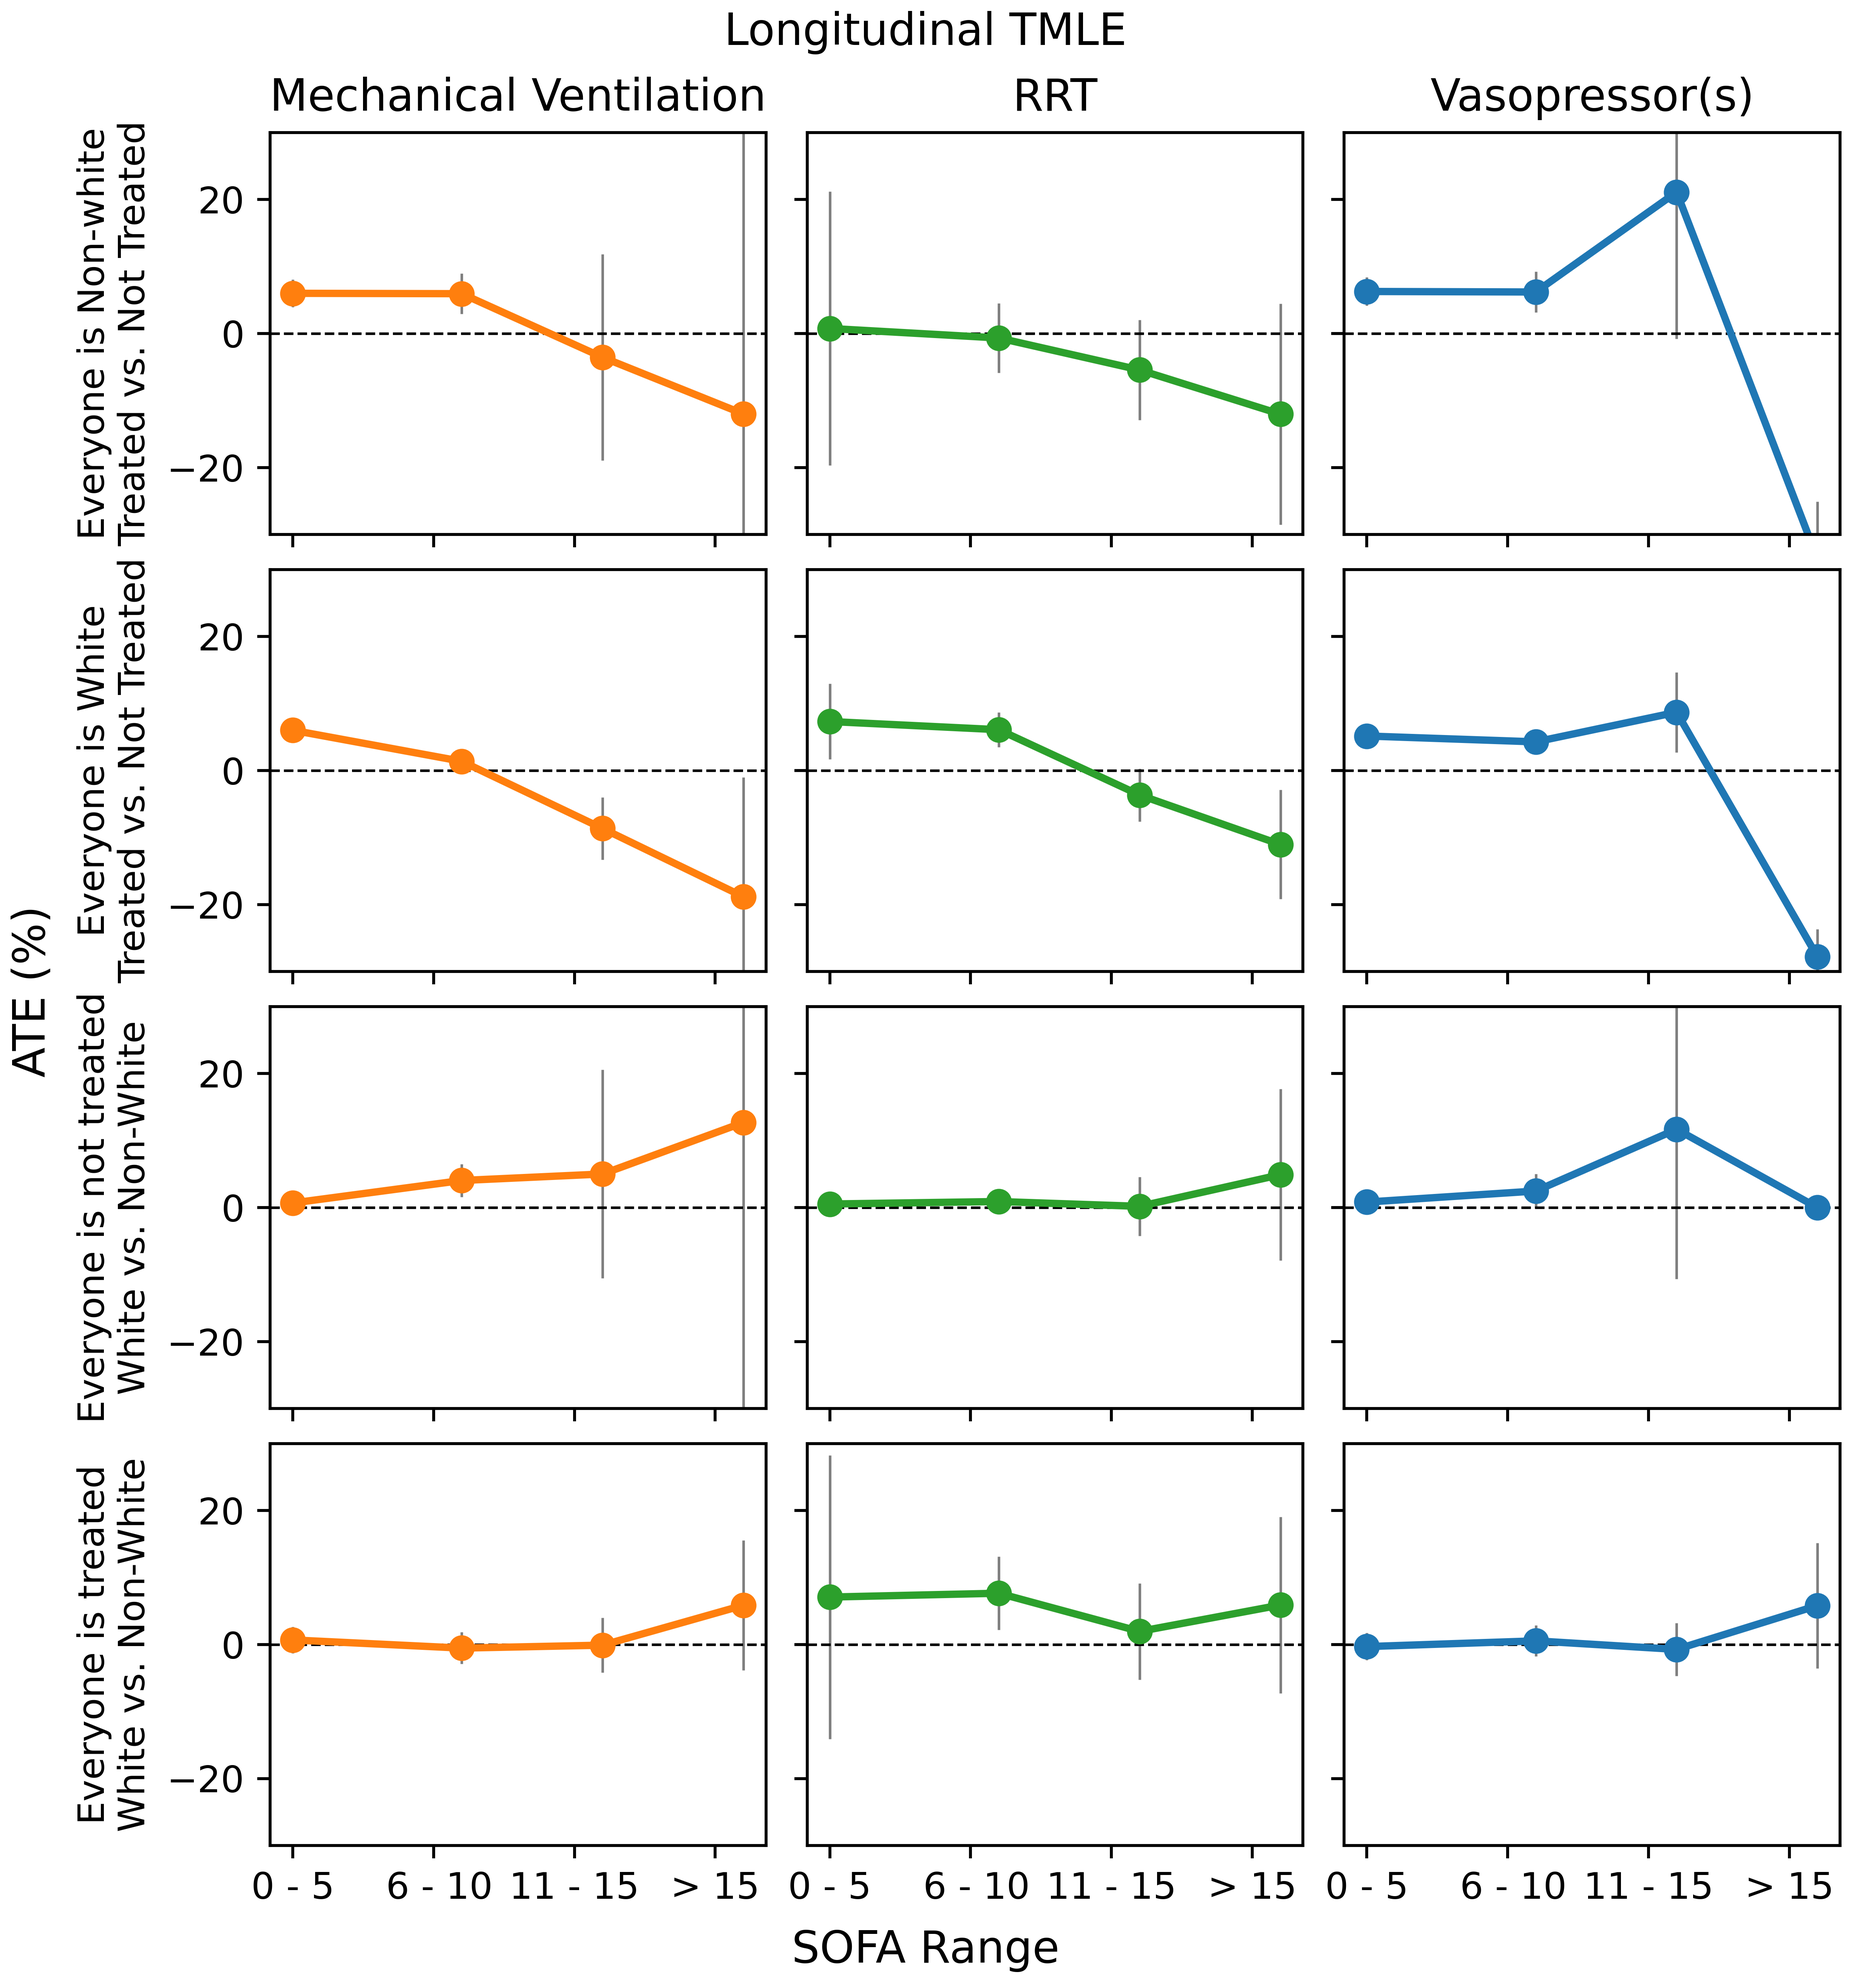
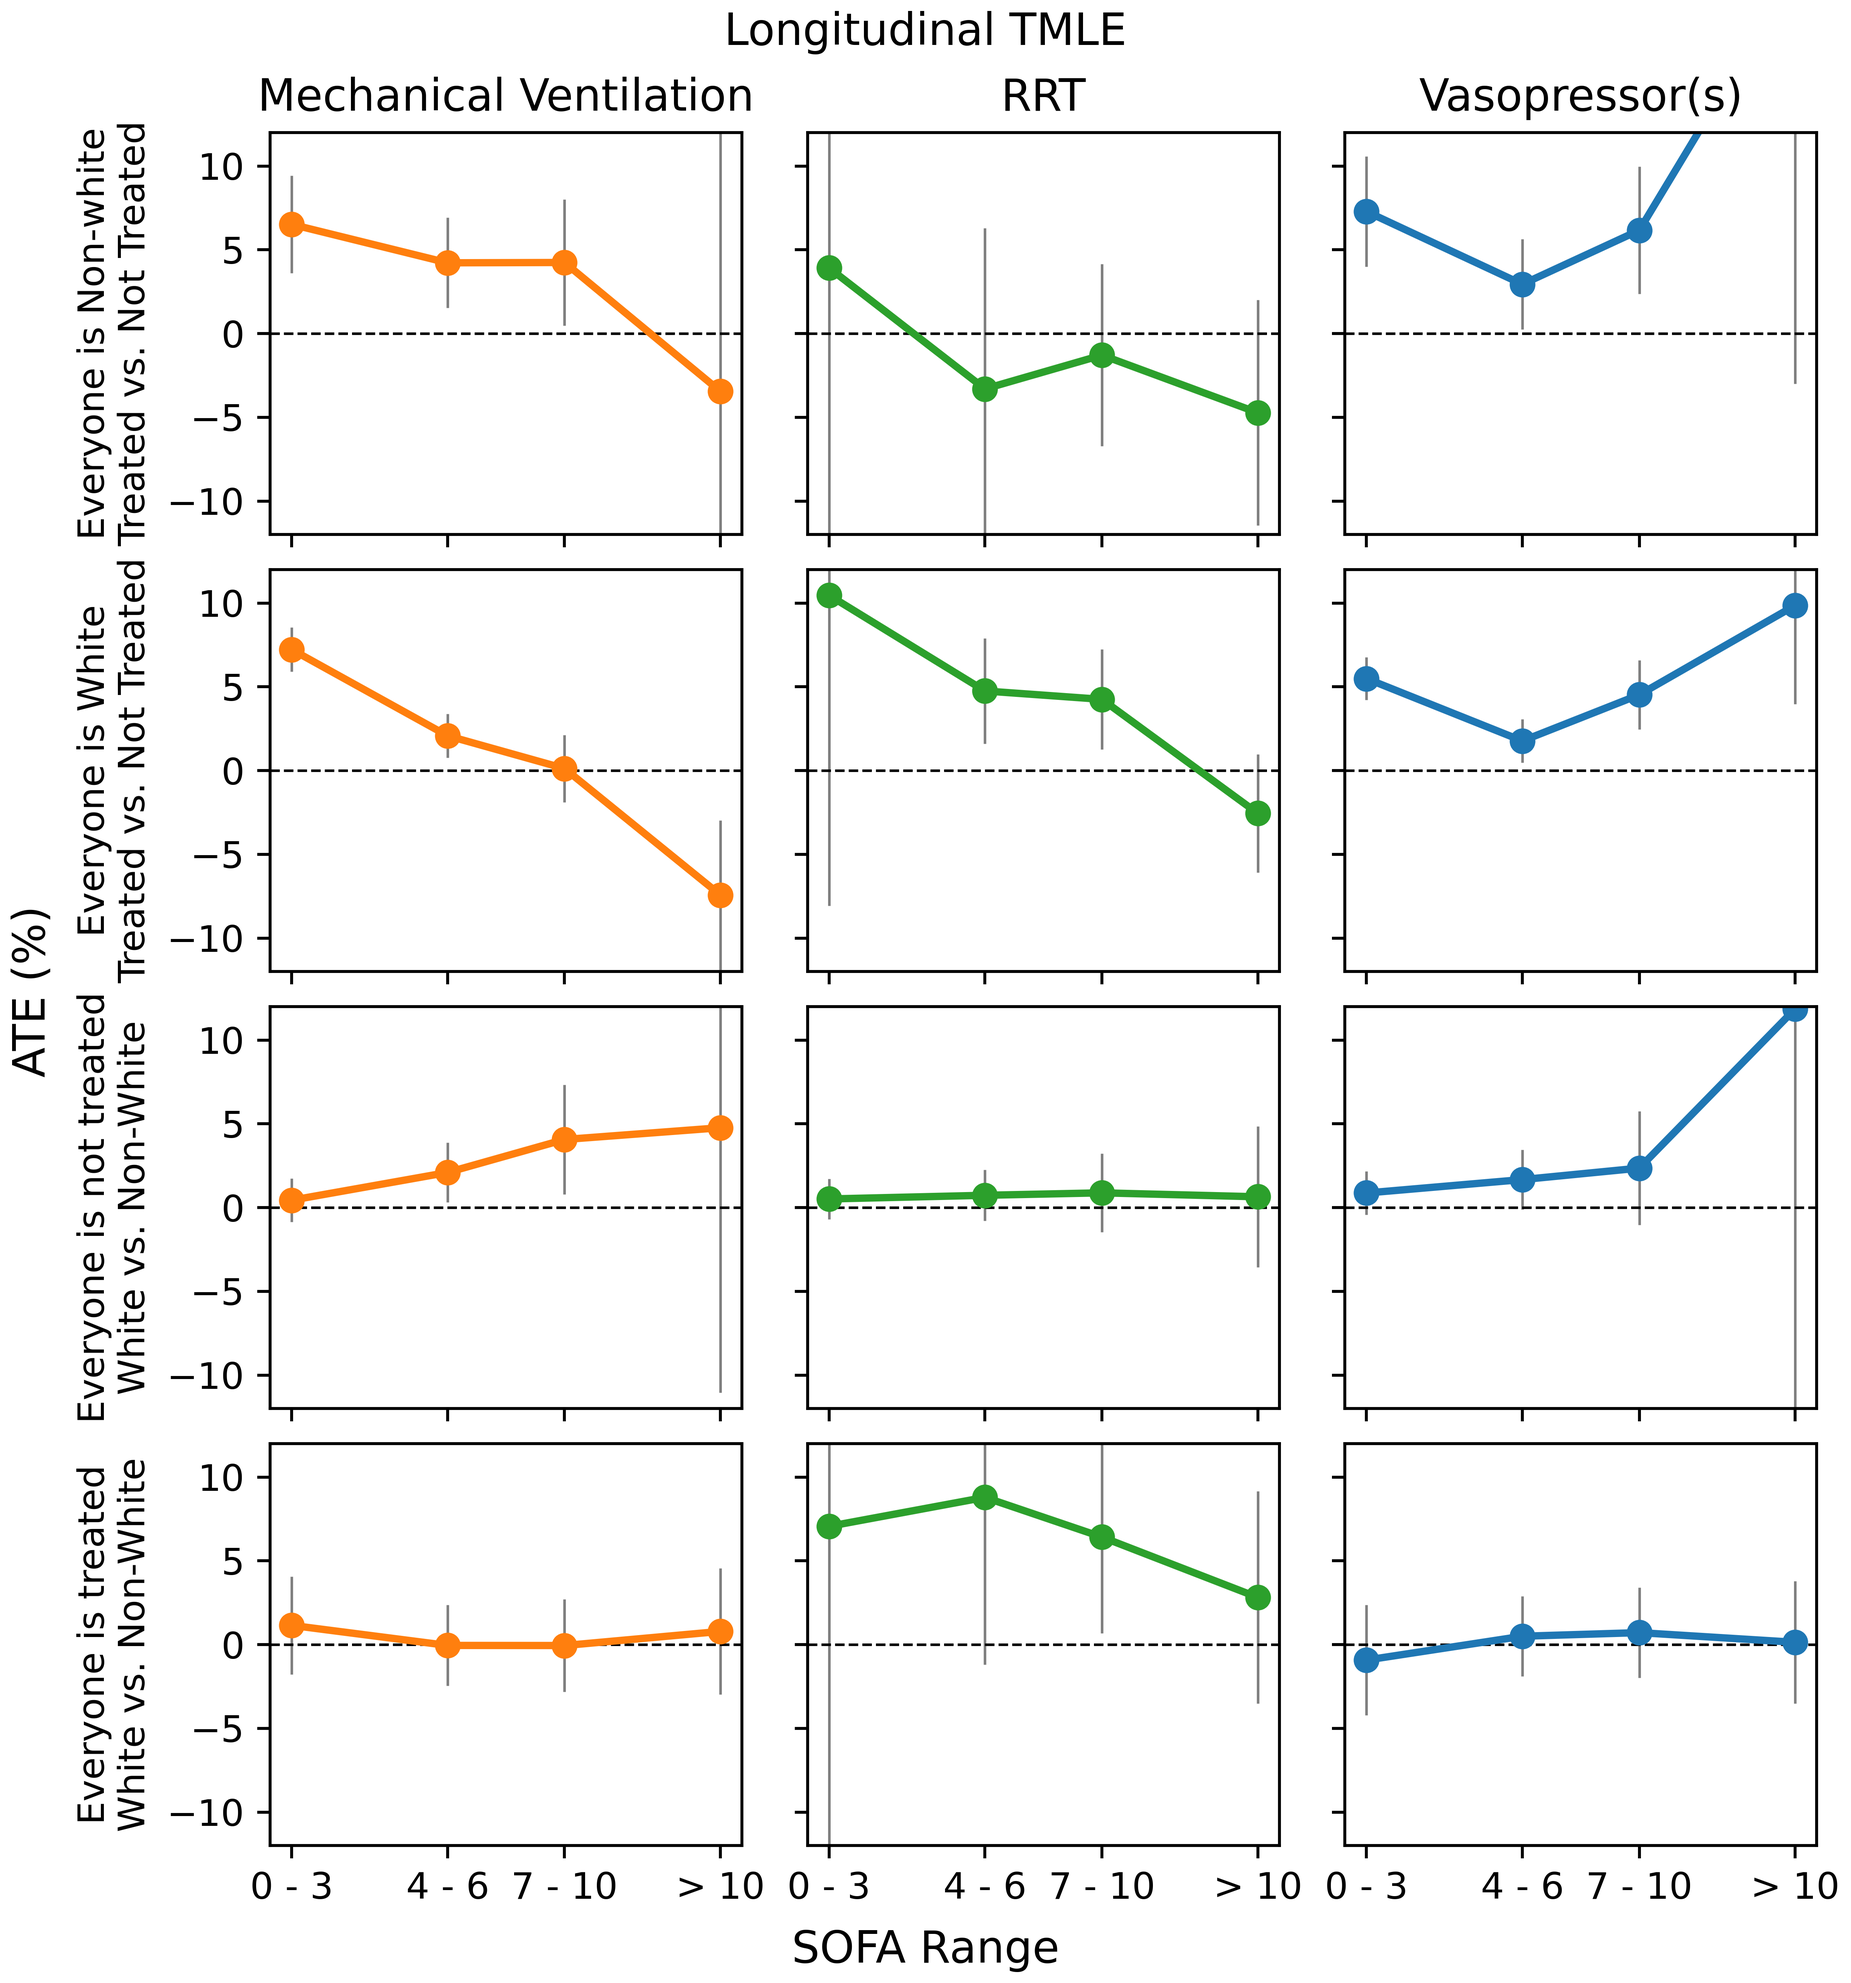
Revised, more balanced SOFA scores

diff --git a/src/py_scripts/plot_LTMLE.py b/src/py_scripts/plot_LTMLE.py
@@ -1,6 +1,5 @@
 import pandas as pd
 from matplotlib import pyplot as plt
-import seaborn as sb
 
 import matplotlib
 matplotlib.use('TKAgg')
@@ -10,7 +9,6 @@ df = pd.read_csv("results\LTMLE.csv")
 
 # Remove overall result
 df = df[~((df.sofa_start == 0) & (df.sofa_end == 100))]
-df = df[~((df.analysis == "Non-White") & (df.analysis == "White"))]
 
 # Transform into percentages
 df.psi = df.psi * 100
@@ -43,13 +41,16 @@ for i, a in enumerate(analyses):
         df_temp = df[(df.treatment == t) & (df.analysis == a)]
         axes[i,j].set(xlabel=None)
         axes[i,j].set(ylabel=None)
-        axes[i,j].errorbar(x=df_temp.sofa_start, y=df_temp.psi, yerr=((df_temp.psi- df_temp.iCI), (df_temp.sCI-df_temp.psi)),
+        axes[i,j].errorbar(x=df_temp.sofa_start, y=df_temp.psi,
+                           yerr=((df_temp.psi- df_temp.iCI), (df_temp.sCI-df_temp.psi)),
                            fmt='-o', c=colors[j], ecolor="tab:gray", elinewidth=.7, linewidth=2)
         axes[i,j].axhline(y=0, xmin=0, xmax=1, c="black", linewidth=.7, linestyle='--')
-        axes[i,j].set_ylim([-30, 30])
+        axes[i,j].set_ylim([-12, 12])
         axes[0,j].set_title(t_dict[t])
         axes[i,0].set(ylabel=a_dict[a])
-        axes[i,j].set_xticklabels(["", "0 - 5", " 6 - 10", "11 - 15", "> 15"])
+        
+        axes[-1,j].set_xticklabels(["0 - 3", "4 - 6", "7 - 10", "> 10"])
+        axes[-1,j].set_xticks([0, 4, 7, 11])
 
 
 fig.supxlabel('SOFA Range')

diff --git a/src/py_scripts/plot_TMLE.py b/src/py_scripts/plot_TMLE.py
@@ -34,7 +34,9 @@ for i, t in enumerate(treatments):
     axes[i].set_ylim([-30, 30])
     axes[i].set_title(t_dict[t])
     axes[0].set(ylabel="ATE (%)\nTreated vs. Not Treated")
-    axes[i].set_xticklabels(["", "0 - 5", " 6 - 10", "11 - 15", "> 15"])
+
+    axes[i].set_xticklabels(["0 - 3", "4 - 6", "7 - 10", "> 10"])
+    axes[i].set_xticks([0, 4, 7, 11])
 
 fig.supxlabel('SOFA Range')
 
